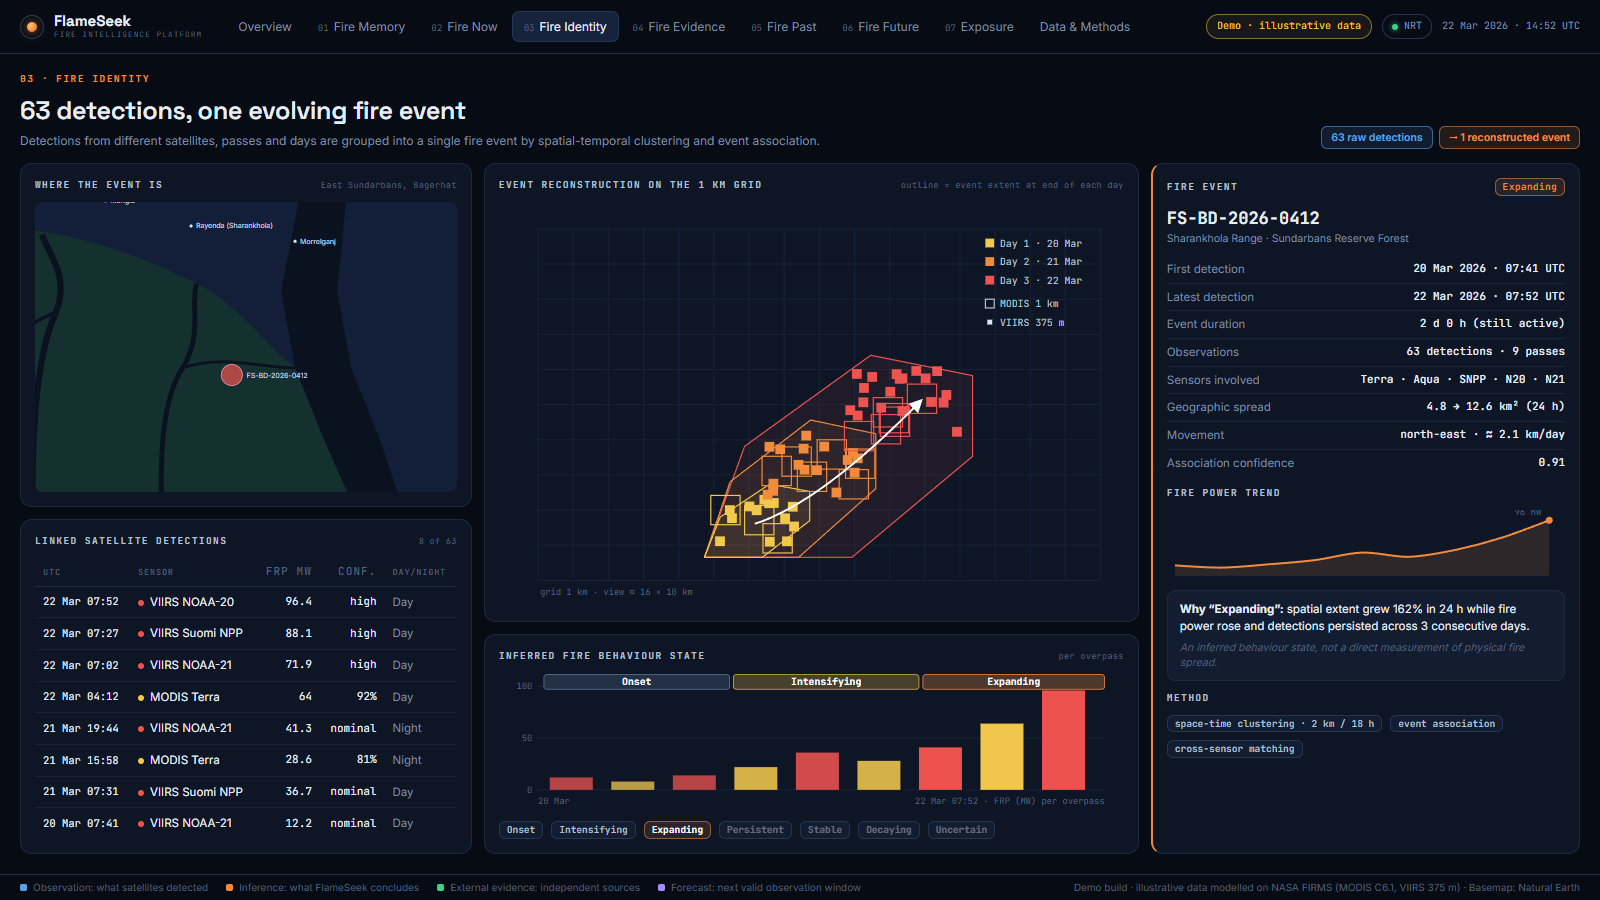
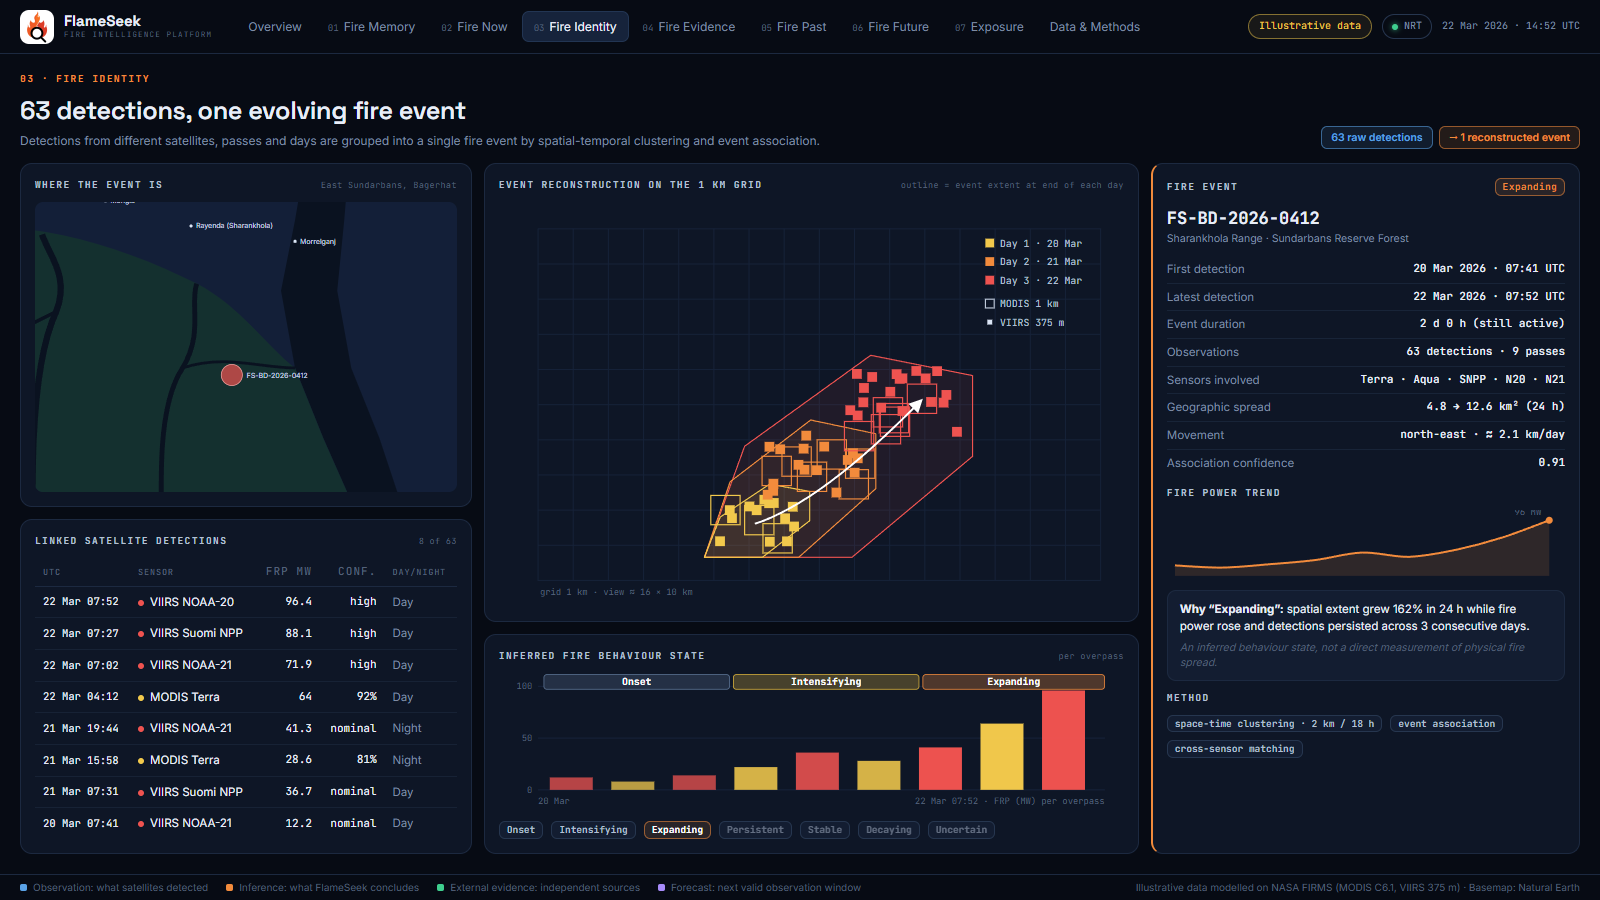
readme

diff --git a/README.md b/README.md
@@ -1,24 +1,131 @@
+<p align="center"><img src="frontend/public/logo.png" alt="FlameSeek logo" width="120" /></p>
+
 # FlameSeek
 
-A global, evidence-driven fire monitoring, verification and forecasting platform built on NASA MODIS and VIIRS active-fire observations.
+A fire intelligence platform built on NASA MODIS and VIIRS active-fire observations, made for the NASA Space Apps Challenge.
 
 **Past → Present → Identify → Verify → Compare → Forecast → Exposure**
-(Fire Memory → Fire Now → Fire Identity → Fire Evidence → Fire Past → Fire Future → Exposure)
 
-A satellite hotspot is an observation, not automatically a confirmed wildfire, and the absence of a hotspot is not proof that no fire exists. Every result is labelled as one of four things:
+A satellite hotspot is an observation, not automatically a confirmed wildfire, and the absence of a hotspot is not proof that no fire exists. FlameSeek harmonizes fire observations from five satellites, reconstructs evolving fire events, checks them against regional satellites, official sources and local news, and estimates where new activity may be detected next.
+
+Every answer keeps four things apart:
 
 | Layer | Meaning |
 |---|---|
-| **Observation** | What MODIS/VIIRS actually detected (sensor, time, footprint, FRP, confidence) |
-| **Inference** | What the system concludes (harmonized activity, anomalies, events, behaviour, evidence status) |
-| **External evidence** | What independent satellites, agencies and news report, always with the original link |
+| **Observation** | What the satellites actually detected (sensor, time, footprint, fire power, confidence) |
+| **Inference** | What FlameSeek concludes (harmonized activity, anomalies, events, behaviour, evidence status) |
+| **External evidence** | What independent satellites, agencies and news report |
 | **Forecast** | Where new satellite-observed activity may appear in the next 6–24 h, or `FORECAST WITHHELD` |
 
-## Four-Witness Fire Intelligence
+![Overview](screenshots/demo/01_overview_seven_stage_story.png)
 
-The four fire satellites (Terra and Aqua MODIS, Suomi NPP and NOAA-20 VIIRS, plus NOAA-21) are treated as witnesses with known blind spots, following the *Four-Witness Fire Intelligence* solution report.
+## What is in this repository
 
-**Harmonization (`witness.py`)** runs the report's eight stages:
+| Part | State |
+|---|---|
+| `frontend/` | The app you see when you run the project: 16 screens that walk through the seven-stage story for one scripted fire event. All figures, charts, maps and news items are **illustrative** and built into the frontend. It makes no API calls. |
+| `backend/` | A FastAPI service that implements the real pipeline on live NASA FIRMS data (harmonization, fire cases, evidence, analogues, forecast, exposure). It runs and has tests, but the current screens are **not connected** to it. |
+| `frontend/src/pages`, `components`, `api` | The earlier live UI that talks to the backend. Kept in the tree, not routed. |
+| `screenshots/` | `screenshots/demo/` holds the 16 current screens; the files directly in `screenshots/` are from the earlier live UI. |
+
+## Running it
+
+```bash
+cd frontend
+npm install
+npm run dev          # http://127.0.0.1:5173
+```
+
+That is all the current app needs. Node 18+ is enough; no keys, tokens or backend are required. The globe uses Cesium's bundled Natural Earth imagery. Fonts load from Google Fonts and fall back to system fonts offline.
+
+`npm run build` type-checks and produces a production bundle in `frontend/dist/`.
+
+## The screens
+
+The example followed throughout is fire event `FS-BD-2026-0412` in the East Sundarbans (Sharankhola Range, Bagerhat, Bangladesh), dated 20–22 March 2026.
+
+| Nav | Screen | Route | What it shows |
+|---|---|---|---|
+| Overview | Seven-stage story | `/` | The seven stages and the four-layer answer for the example event |
+| 01 Fire Memory | Burning calendar | `/fire-memory` | Month × year activity calendar 2003–2026, seasonal profile, annual activity |
+| | Current vs. historical | `/fire-memory/anomaly` | This season against the median and MAD bands, anomaly category, change point |
+| 02 Fire Now | 3D globe | `/fire-now` | Hotspots on a globe, sensors, layers, most active regions, selected event |
+| | Area of interest | `/fire-now/area` | Choosing a country, division, district, forest, protected area, polygon or radius |
+| | Observation quality | `/fire-now/quality` | Per-cell observation status and a cell inspector with its sufficiency score |
+| 03 Fire Identity | Event reconstruction | `/fire-identity` | 63 detections grouped into one event, linked detections, behaviour state |
+| 04 Fire Evidence | Independent sources | `/fire-evidence` | Regional satellites, official sources, geographic and temporal matching |
+| | Local news & NLP | `/fire-evidence/news` | Matched and rejected reports, entity extraction, event classification |
+| | Fusion & validation | `/fire-evidence/fusion` | How the evidence score of 88 is built, validation status, plain-language reason |
+| | Fire case | `/fire-evidence/case` | The eight-panel summary of the whole case |
+| 05 Fire Past | Historical analogues | `/fire-past` | Five closest past events and their fire-power curves |
+| 06 Fire Future | Forecast corridor | `/fire-future` | 6 / 12 / 24 h corridor, model vs. baselines, a withheld forecast |
+| 07 Exposure | Exposure analysis | `/exposure` | People, roads, farms, schools and facilities in or near the corridor |
+| Data & Methods | Full workflow | `/methods` | The pipeline from raw hotspot to explained answer, and the data sources |
+| | Sensor harmonization | `/methods/harmonization` | Spatial harmonization, sensor calibration, raw vs. harmonized record |
+
+| | |
+|---|---|
+| ![Fire Now](screenshots/demo/02_fire_now_3d_globe.png) | ![Burning calendar](screenshots/demo/06_fire_memory_burning_calendar.png) |
+| ![Evidence fusion](screenshots/demo/11_evidence_fusion_validation.png) | ![Forecast corridor](screenshots/demo/13_fire_future_forecast_corridor.png) |
+
+### What responds to input
+
+Navigation and sub-tabs, the time-period and forecast-horizon switches, the year span on the burning calendar, the area-type picker, analogue selection on Fire Past, and the layer list on Exposure all change what is shown. A few controls only change their own state: the layer toggles on Fire Now, the tabs on the fire case map, and article selection on the news screen. "Download evidence report" opens the browser's print dialog.
+
+## Frontend layout
+
+```
+frontend/
+  index.html              fonts, favicon
+  public/logo.png         project logo (header and browser tab)
+  public/cesium/          Cesium static assets, including Natural Earth imagery
+  src/main.tsx            routes
+  src/demo/
+    demo.css              theme and layout
+    ui.tsx                app shell (header, sub-tabs, footer), cards, chips, small SVG chart helpers
+    data.ts               the scripted event, calendar, hotspots, Bangladesh outline
+    maps.tsx              schematic Bangladesh and Sundarbans maps, forecast corridor
+    DemoGlobe.tsx         Cesium globe with scripted hotspots
+    pages/                one file per nav section
+```
+
+Stack: React 18, TypeScript, Vite, React Router, Cesium. Charts are hand-written SVG. To change the story, edit `data.ts` and the constants at the top of each page file.
+
+## Limits of the current app
+
+- Nothing on screen is computed from real observations. The header carries an "Illustrative data" badge for that reason. News headlines, outlets, official statements and all figures are invented.
+- The Bangladesh outline, the Sundarbans map and the positions of villages, roads and camps are hand-drawn schematics, not survey data.
+- The layout is designed for desktop widths (about 1200 px and up); it is not responsive for phones.
+
+## Backend: the live pipeline
+
+The backend is independent of the current screens. It is the working implementation of the methods the screens describe.
+
+```bash
+cd backend               # Python 3.11+
+pip install -r requirements.txt
+python -m uvicorn main:app --host 127.0.0.1 --port 8003
+python -m pytest
+```
+
+Port 8003 is the one the Vite dev server proxies `/api` to (`frontend/vite.config.ts`). Interactive API docs are at `/docs`.
+
+`backend/.env`:
+
+```env
+FIRMS_MAP_KEY=your_nasa_firms_key      # required: https://firms.modaps.eosdis.nasa.gov/api/map_key/
+NEWS_API_KEY=your_newsapi_key          # optional: adds NewsAPI articles to GDELT
+```
+
+All other data sources are free and keyless. Responses are cached under `backend/cache/`; FIRMS science archives are cached permanently, so the first Fire Memory or event outlook for an area takes minutes and later runs take seconds. The FIRMS key allows 5000 transactions per 10 minutes. The backend reads the key's live usage: interactive requests fail fast with a clear message when the budget is nearly spent, and long jobs wait for the window to roll over. When FIRMS is slow or unreachable, the backend serves its cached data and marks it as a fallback.
+
+To use the earlier live UI with it, restore its routes in `frontend/src/main.tsx` (`HomePage`, `FireGlobePage`, `FireMemoryPage`, `DataSourcesPage`, wrapped in `AppProvider`, with `styles.css` imported). `frontend/.env.local` then accepts `VITE_API_BASE_URL`, `VITE_CESIUM_ION_TOKEN` (terrain and imagery) and `VITE_GOOGLE_MAPS_API_KEY` (photorealistic tiles).
+
+### Four-Witness Fire Intelligence
+
+The fire satellites (Terra and Aqua MODIS, Suomi NPP, NOAA-20 and NOAA-21 VIIRS) are treated as witnesses with known blind spots.
+
+**Harmonization (`witness.py`)** runs eight stages:
 
 1. Detections from FIRMS, with observation opportunities from sensor availability and ERA5 cloud cover.
 2. Vegetation fires only (FIRMS `type` 0), confidence filter, local solar time, pixel area, 0.1° cell.
@@ -38,95 +145,46 @@ Fire Memory reports the **continuity test** (raw vs consistent ratio across the 
 - **Stream C:** NLP-matched news and official reports.
 - **Background facts:** land use, nearby heat sources, the local burning season and repeat heat on the same spot over the previous five years.
 
-Each item votes for categories weighted by its reliability. The answer has three parts: **Is it real? What kind? What is it doing now?** A type is named only when the top category scores above 50% and leads the next by 20 points. Cases stay provisional until every satellite has passed or 24 h have elapsed. The open panel re-gathers evidence every 10 minutes. On the globe, a case marker is hollow until evidence is gathered; its fill colour shows the fire type, its outline weight the confirmation level, and it fades once the fire has ended.
+Each item votes for categories weighted by its reliability. The answer has three parts: **Is it real? What kind? What is it doing now?** A type is named only when the top category scores above 50% and leads the next by 20 points. Cases stay provisional until every satellite has passed or 24 h have elapsed.
 
-### Demo scenarios
+### Scripted backend scenarios
 
-`backend/demo_data.py` scripts three complete Fire Cases in Bangladesh for walkthroughs and videos: a garment factory fire at Ashulia (Dhaka), paddy-straw burning at Shibganj (Bogura) and a forest fire in the Sundarbans' Chandpai range. Each has a fire-power curve and a cloud curve, sampled at realistic overpass times to produce the detections. The matching pass schedule, Himawari timeline, official report, news items, place, land use and burning-season history feed the case without any external calls, so the answer appears in stages over about 7 seconds. On Fire Now, choose the **Bangladesh** location: the three cases verify themselves and their markers fill in.
+`backend/demo_data.py` scripts three complete Fire Cases in Bangladesh: a garment factory fire at Ashulia (Dhaka), paddy-straw burning at Shibganj (Bogura) and a forest fire in the Sundarbans' Chandpai range. `backend/demo_outlook.py` scripts the Past, Future and Exposure results for the same three fires. They are synthetic, need no external calls, and results carry `demo_scenario`. Edit `SCENARIOS` to change a story, or empty the list to run on live data only.
 
-`backend/demo_outlook.py` scripts the **Past, Future and Exposure** tabs for the same three fires: five historical analogues each, a 6/12/24 h probability corridor stretched downwind with model-validation tables, and population, roads and facilities inside the corridor. "Run analysis" finishes in about 6 seconds.
+### Where each capability lives
 
-All of this is synthetic. Outlets, reports and figures are invented (marked "(demo)"), have no links, and results carry `demo_scenario`. Edit `SCENARIOS` to change a story, or empty the list to run on live data only.
-
-## Demo UI (current frontend)
-
-The frontend currently ships as a **self-contained demo**: 16 screens under `frontend/src/demo/` that follow the seven-stage story for one scripted fire event (`FS-BD-2026-0412`, East Sundarbans). Every number, chart, map and news item is illustrative and hard-coded in `demo/data.ts` and the page files. The demo makes **no API calls**, so only `npm run dev` is needed; the backend does not have to run. The header carries a "Demo · illustrative data" badge.
-
-| Nav | Screens (route) |
+| Capability | Implementation |
 |---|---|
-| Overview | Seven-stage story (`/`) |
-| 01 Fire Memory | Burning calendar (`/fire-memory`), current vs. historical: anomaly and change point (`/fire-memory/anomaly`) |
-| 02 Fire Now | 3D globe (`/fire-now`), area of interest (`/fire-now/area`), observation quality (`/fire-now/quality`) |
-| 03 Fire Identity | Event reconstruction (`/fire-identity`) |
-| 04 Fire Evidence | Independent sources (`/fire-evidence`), local news & NLP (`/fire-evidence/news`), fusion & validation (`/fire-evidence/fusion`), full fire case (`/fire-evidence/case`) |
-| 05 Fire Past | Historical analogues (`/fire-past`) |
-| 06 Fire Future | Forecast corridor (`/fire-future`) |
-| 07 Exposure | Exposure analysis (`/exposure`) |
-| Data & Methods | Full workflow (`/methods`), sensor harmonization (`/methods/harmonization`) |
-
-The globe uses Cesium with its bundled Natural Earth imagery (no token); the Bangladesh and Sundarbans maps are hand-drawn schematics. The live pages (`src/pages`, `src/components`, `src/api`) and the backend described below are still in the repository but are not routed; to bring them back, restore the routes in `src/main.tsx`.
-
-## Running it
-
-```bash
-# backend (Python 3.11+)
-cd backend
-pip install -r requirements.txt
-python -m uvicorn main:app --host 127.0.0.1 --port 8000
-python -m pytest
-
-# frontend
-cd frontend
-npm install
-npm run dev          # http://127.0.0.1:5173
-```
-
-`backend/.env`:
-
-```env
-FIRMS_MAP_KEY=your_nasa_firms_key      # required: https://firms.modaps.eosdis.nasa.gov/api/map_key/
-NEWS_API_KEY=your_newsapi_key          # optional: adds NewsAPI articles to GDELT
-```
-
-`frontend/.env.local` (optional): `VITE_API_BASE_URL`, `VITE_CESIUM_ION_TOKEN` (terrain and imagery), `VITE_GOOGLE_MAPS_API_KEY` (photorealistic tiles).
-
-All other data sources are free and keyless. Responses are cached under `backend/cache/`; FIRMS science archives are cached permanently, so the first Fire Memory or event outlook for an area takes minutes and later runs take seconds. The FIRMS key allows 5000 transactions per 10 minutes. The backend reads the key's live usage: interactive requests fail fast with a clear message when the budget is nearly spent, and long jobs wait for the window to roll over.
-
-## Where each capability lives
-
-| Spec section | Implementation |
-|---|---|
-| 1–2 MODIS/VIIRS integration, sensor harmonization | `firms_client.py` (NRT and science archives, GOES, Landsat), `witness.py` (Four-Witness pipeline: detection profile, time of day, two tiers, effort, fused probability), `harmonize.py` (daily series and anomalies on the consistent record) |
+| MODIS/VIIRS integration, sensor harmonization | `firms_client.py` (NRT and science archives, GOES, Landsat), `witness.py` (detection profile, time of day, two tiers, effort, fused probability), `harmonize.py` (daily series and anomalies on the consistent record) |
 | Fire Cases | `fire_case.py` (streams A/B/C, category votes, decision rules, three-part answer), `overpass.py` (skyfield + CelesTrak TLEs) |
-| 3 Footprint-aware mapping | `geo.py`: FIRMS scan × track footprints, fractional attribution to the ~1 km grid, location uncertainty. The globe draws the footprints of the selected event |
-| 4 Observation quality | `quality.py`: six observation classes, Observation Sufficiency Score, `UNKNOWN` / `AMBIGUOUS` / `INSUFFICIENT OBSERVATION`, provenance |
-| 5 3D globe (Fire Now) | `CesiumFireGlobe.tsx`: far-side occlusion; last 24 h / 48 h / 5 days or any historical date; event, corridor and exposure layers |
-| 6 Area of interest | Country, state, district, forest or protected-area search (OSM Nominatim), rectangle, custom polygon, radius (`AOISelector.tsx`, globe AOI tools, `geo.AOI`) |
-| 7–9 Calendar, seasonal profile, current vs historical | `routers/memory.py`, `seasonal.py`, Fire Memory page |
-| 10 Anomalies | Robust median/MAD z: Normal, Above Normal, Unusual, Highly Unusual |
-| 11 Change points | `changepoint.py`: PELT, reported as *statistically detected changes* |
-| 12–13 Fire events and behaviour | `events.py`: spatio-temporal linking, event attributes, association confidence, *Inferred Fire Behaviour States* |
-| 14 Reverse geocoding | `geocode.py`: country to village, nearest settlement, forests and protected areas, nearby non-fire heat sources |
-| 15 Regional satellites | `corroboration.py`: other MODIS/VIIRS platforms, GOES (Americas), Landsat (US/CA), Sentinel-2 scenes, EFFIS (Europe/MENA), CWFIS M3 (Canada); Himawari and Meteosat as review links |
-| 16 Government sources | GDACS (global), NIFC WFIGS (US, including prescribed burns), NSW RFS; per-country agency directory (`source_directory.py`) |
-| 17–20 News, NLP, geographic and temporal matching | `evidence.py`, `nlp.py`: GDELT (plus optional NewsAPI), event-type classification, cause, impact, area, infrastructure; geocoded distance and time-to-detection scoring |
-| 21–25 Fusion, status, score, explanation, news panel | `evidence.fuse`: component breakdown, status labels, generated explanation; original source vs system summary vs system interpretation in the UI |
-| 26–27 Historical analogues | `history.py`, `analogues.py`: same-age truncation, KNN with shrinkage-regularized Mahalanobis distance, outcomes |
-| 28–31 Forecast | `forecast.py`: persistence, seasonal and wind-only baselines vs LightGBM on temporal and spatial holdouts (Brier, BSS, POD, FAR, CSI, footprint IoU, calibration); probability corridor or `FORECAST WITHHELD` |
-| 32 Exposure | `exposure.py`: WorldPop population and OSM settlements, roads, farmland, forests, protected areas, schools, hospitals, power, critical facilities |
-| 33 Event side panel | `EventPanel.tsx`: Satellite, Event, Quality, Evidence, Past, Future and Exposure tabs; `/fire-map?event=EV-…` deep links |
+| Footprint-aware mapping | `geo.py`: FIRMS scan × track footprints, fractional attribution to the ~1 km grid, location uncertainty |
+| Observation quality | `quality.py`: six observation classes, Observation Sufficiency Score, `UNKNOWN` / `AMBIGUOUS` / `INSUFFICIENT OBSERVATION`, provenance |
+| Area of interest | `geo.AOI`, `geocode.py`: country, state, district, forest or protected-area search (OSM Nominatim), rectangle, polygon, radius |
+| Calendar, seasonal profile, current vs historical | `routers/memory.py`, `seasonal.py` |
+| Anomalies | Robust median/MAD z: Normal, Above Normal, Unusual, Highly Unusual |
+| Change points | `changepoint.py`: PELT, reported as *statistically detected changes* |
+| Fire events and behaviour | `events.py`: spatio-temporal linking, event attributes, association confidence, inferred behaviour states |
+| Reverse geocoding | `geocode.py`: country to village, nearest settlement, forests and protected areas, nearby non-fire heat sources |
+| Regional satellites | `corroboration.py`: other MODIS/VIIRS platforms, GOES (Americas), Landsat (US/CA), Sentinel-2 scenes, EFFIS (Europe/MENA), CWFIS M3 (Canada); Himawari and Meteosat as review links |
+| Government sources | GDACS (global), NIFC WFIGS (US, including prescribed burns), NSW RFS; per-country agency directory (`source_directory.py`) |
+| News, NLP, geographic and temporal matching | `evidence.py`, `nlp.py`: GDELT (plus optional NewsAPI), event-type classification, cause, impact, area, infrastructure; distance and time-to-detection scoring |
+| Fusion, status, score, explanation | `evidence.fuse`: component breakdown, status labels, generated explanation |
+| Historical analogues | `history.py`, `analogues.py`: same-age truncation, KNN with shrinkage-regularized Mahalanobis distance, outcomes |
+| Forecast | `forecast.py`: persistence, seasonal and wind-only baselines vs LightGBM on temporal and spatial holdouts (Brier, BSS, POD, FAR, CSI, footprint IoU, calibration); probability corridor or `FORECAST WITHHELD` |
+| Exposure | `exposure.py`: WorldPop population and OSM settlements, roads, farmland, forests, protected areas, schools, hospitals, power, critical facilities |
 
-## Honest limits
+### API
+
+`GET /api/current_hotspots` · `GET /api/events` · `GET /api/events/{id}` · `GET /api/events/{id}/case` · `POST /api/events/{id}/evidence` (job, includes the Fire Case) · `POST /api/events/{id}/outlook` (job: analogues, forecast, exposure) · `POST /api/fire_memory` (job) · `GET /api/jobs/{id}` · `GET /api/places/search` · `GET /api/places/reverse` · `POST /api/generate_calendar` · `POST /api/critical_periods` · `GET /api/verified_hotspots` · `GET /data-sources`.
+
+### Honest limits of the pipeline
 
 - **Evidence score** weights are expert-set, so the score is evidence strength, not a probability. "Confirmed Fire" is used only when an official incident report lies within 15 km and matches in time, and no controlled burn is reported.
 - **Cloud cover** comes from ERA5 reanalysis and is a proxy for the satellites' own cloud masks.
 - **NLP** is transparent rule-based extraction, not a trained language model. News summaries are generated from extracted facts and are labelled as system-generated.
 - **Himawari, Meteosat and most national agencies** have no public machine-readable fire feed, so they are linked for manual review and never counted as checked.
-- **Forecasts** predict *satellite-observed activity*, not fire spread. They do not use land cover or fuel moisture. Training uses reanalysis winds for the forecast window (perfect-prognosis), so live skill may be lower than the holdout scores. When the chosen model's skill against climatology is negative, the UI says so.
+- **Forecasts** predict *satellite-observed activity*, not fire spread. They do not use land cover or fuel moisture. Training uses reanalysis winds for the forecast window (perfect-prognosis), so live skill may be lower than the holdout scores. When the chosen model's skill against climatology is negative, the result says so.
 - **Observation effort** uses orbit geometry and ERA5 cloud, not the MOD14A1/MYD14A1/VNP14A1/VJ114A1 daily masks (these need an Earthdata login). Detection profiles are regional and learned per area; land cover is not a profile input because FIRMS carries none.
 - **Fire Case category percentages** are evidence scores, not calibrated probabilities, until they are tested on labelled cases. A clear miss after a short burn is weak evidence, and a missing news report is weaker still.
 - **Fire Memory** accepts areas up to 20° across. Histories longer than about 10 years make thousands of FIRMS requests the first time.
-
-## API
-
-`GET /api/current_hotspots` · `GET /api/events` · `GET /api/events/{id}` · `GET /api/events/{id}/case` · `POST /api/events/{id}/evidence` (job, includes the Fire Case) · `POST /api/events/{id}/outlook` (job: analogues, forecast, exposure) · `POST /api/fire_memory` (job) · `GET /api/jobs/{id}` · `GET /api/places/search` · `GET /api/places/reverse` · `POST /api/generate_calendar` · `POST /api/critical_periods` · `GET /api/verified_hotspots` · `GET /data-sources`. Interactive docs are at `/docs`.
+- **Known bug:** `GET /api/verified_hotspots` currently returns HTTP 500 (a response-serialization error raised from the handler in `routers/analysis.py`).
